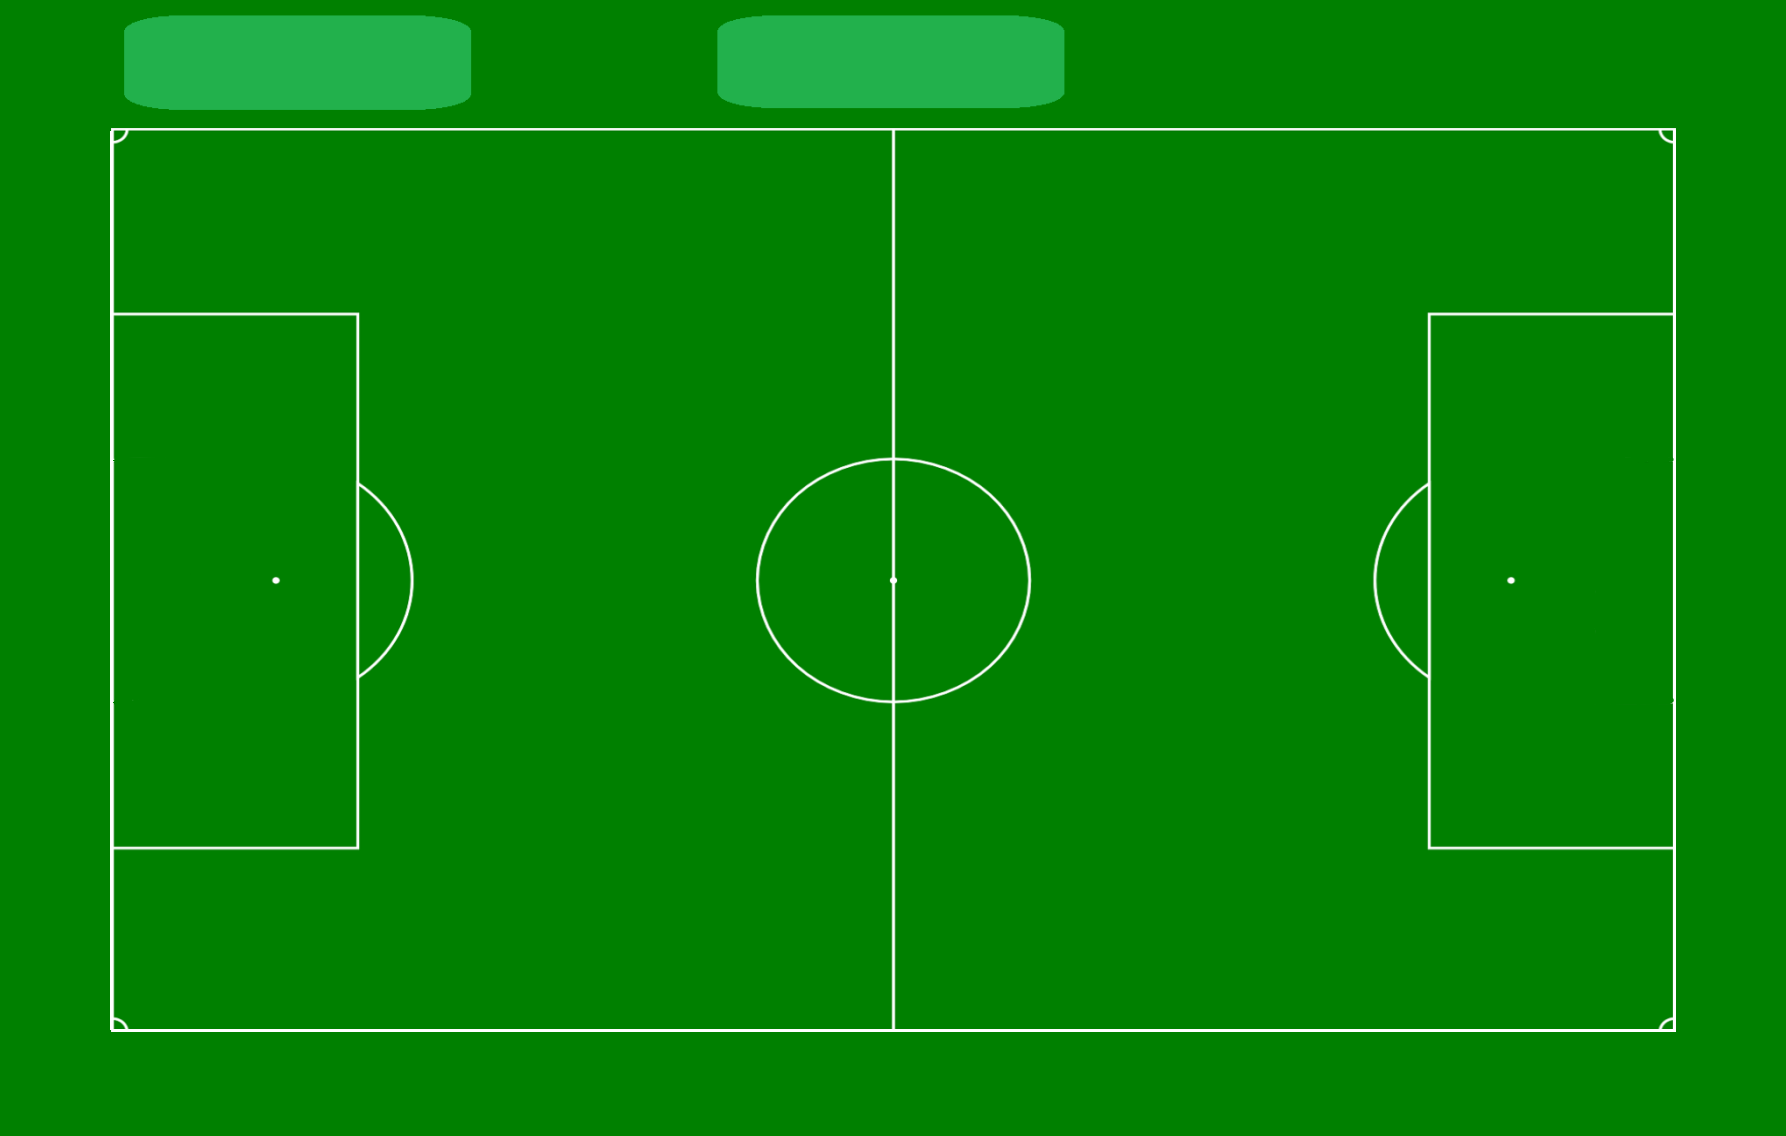
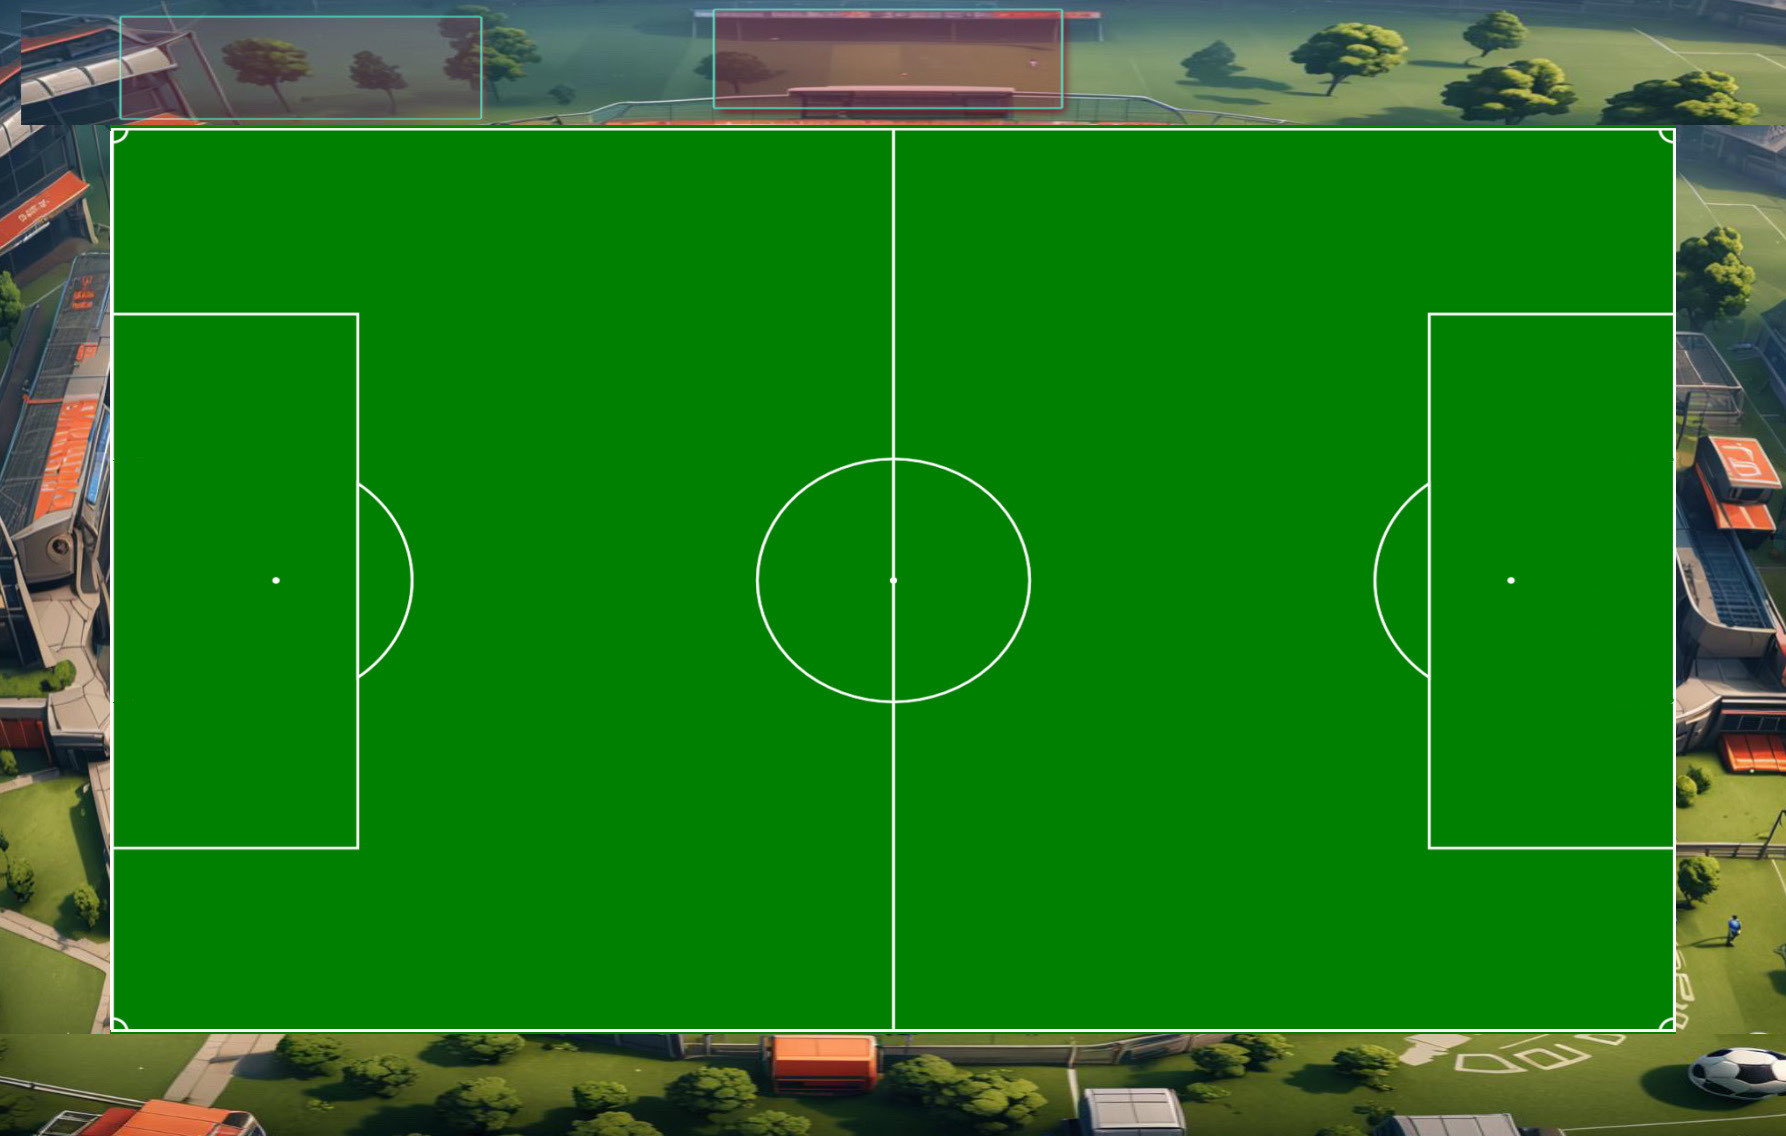
add background menu and change the field background

Changed region(s): [[0.0, 0.0, 1.0, 1.0]]

diff --git a/src/main.c b/src/main.c
@@ -65,7 +65,7 @@ int main(int argc, char **argv) {
     menuState.localButton.texture = IMG_LoadTexture(renderer, "resources/local.png");
     menuState.ipInputButton.texture = IMG_LoadTexture(renderer, "resources/ipInput.png");
     menuState.backButton.texture = IMG_LoadTexture(renderer, "resources/back.png");
-    menuState.menuBackground = IMG_LoadTexture(renderer, "resources/menu.png");
+    menuState.menuBackground = IMG_LoadTexture(renderer, "resources/menu.jpg");
     menuState.gameBackground = IMG_LoadTexture(renderer, "resources/football-field.png");
 
     bool closeWindow = false;

diff --git a/include/model.h b/include/model.h
@@ -6,7 +6,7 @@
 #include <SDL2/SDL_ttf.h>
 #include <stdbool.h>
 
-#define MAX_PLAYERS 2
+#define MAX_PLAYERS 4
 #define PALYER_SPEED 500
 #define SCREEN_WIDTH 1200
 #define SCREEN_HEIGHT 800
